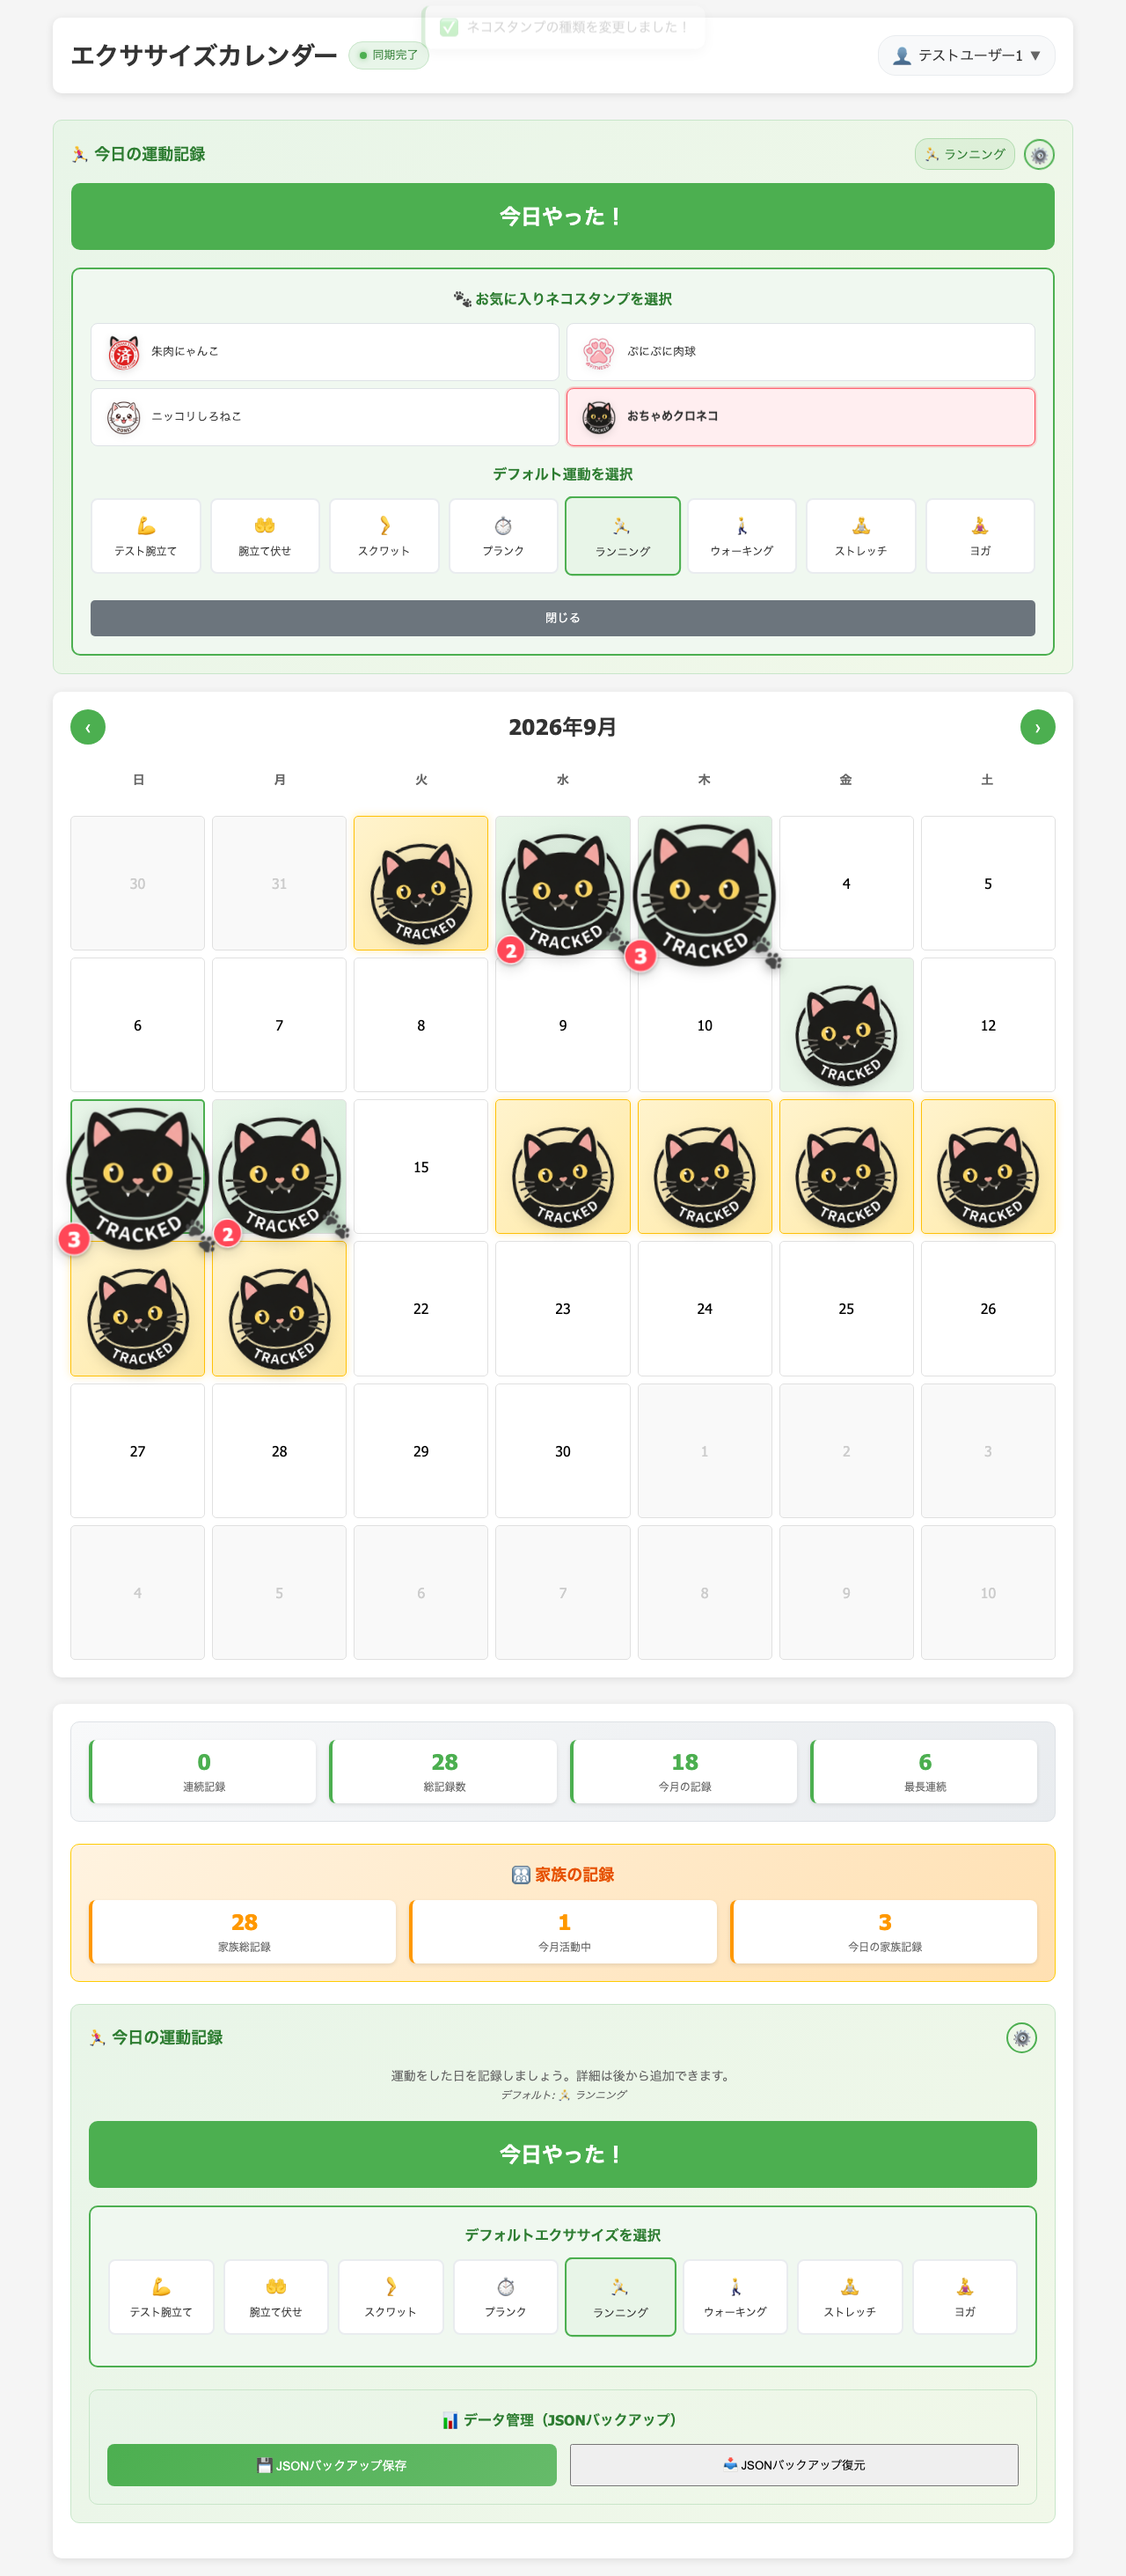
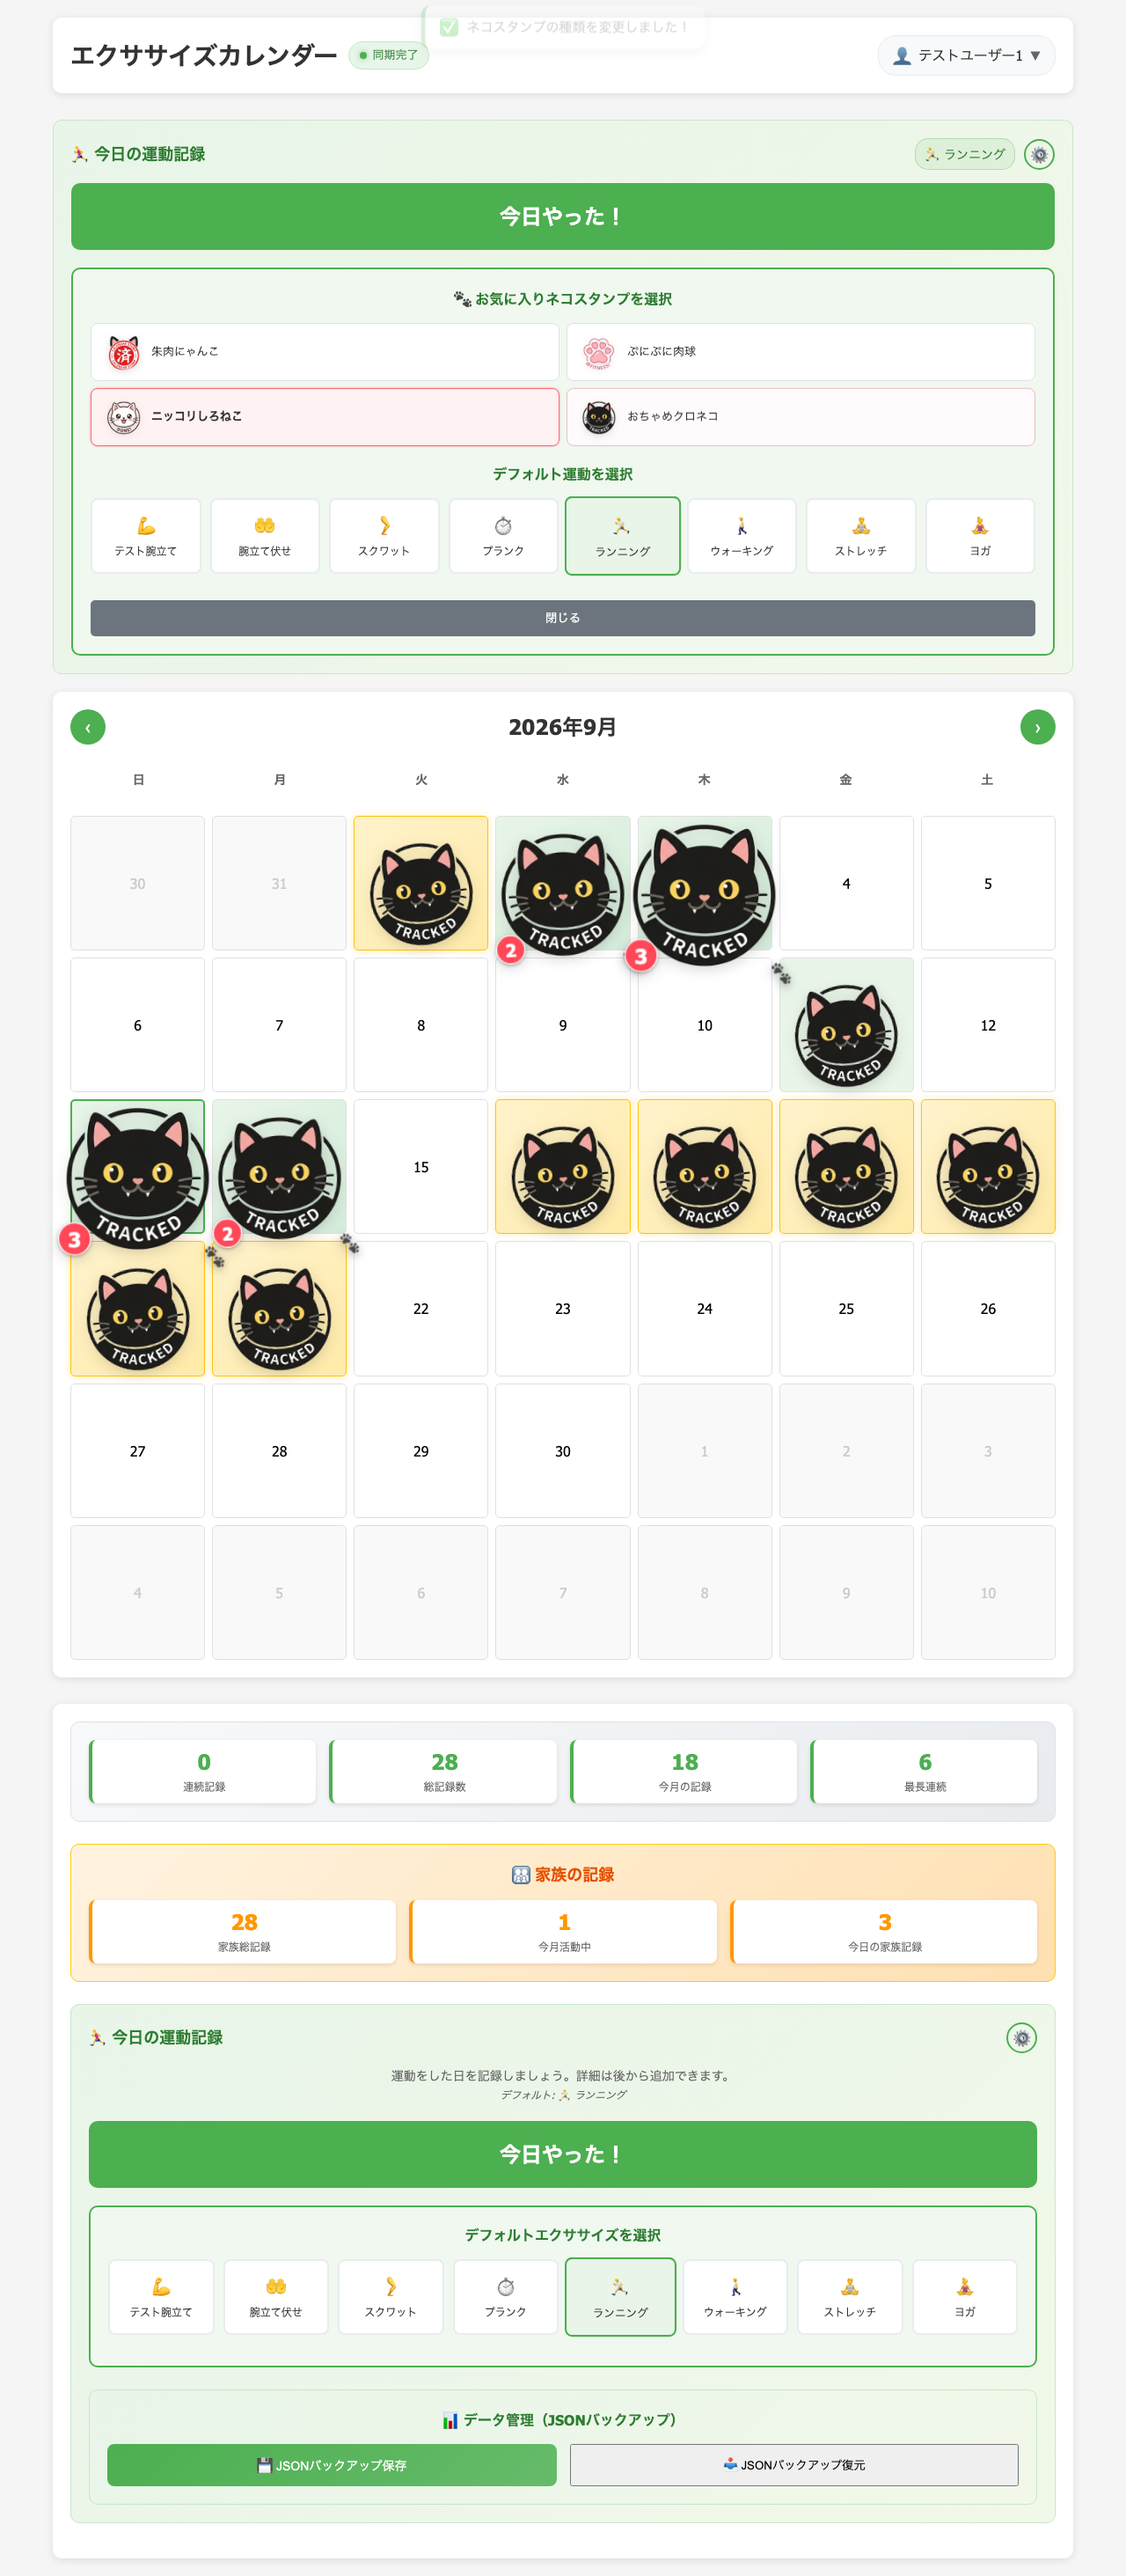
fix: shrink cat paw badge and shift to bottom-right outer edge to avoid covering cat face

diff --git a/public/style.css b/public/style.css
@@ -460,12 +460,12 @@ body {
   text-shadow: 0 0 1px rgba(255, 71, 87, 0.4);
 }
 
-/* 肉球バッジ（複数記録時のアクセント・猫スタンプ右下の中央寄りに配置） */
+/* 肉球バッジ（複数記録時のアクセント・猫のお顔に一切被らないよう右下隅の外縁に配置） */
 .stamp-done .cat-paw-badge {
   position: absolute;
-  bottom: 8px;
-  right: 8px;
-  font-size: 22px;
+  bottom: -4px;
+  right: -2px;
+  font-size: 14px;
   line-height: 1;
   z-index: 12;
   filter: drop-shadow(0 2px 4px rgba(0, 0, 0, 0.3));
@@ -542,9 +542,9 @@ body {
 }
 
 .stamp-done.stamp-large .cat-paw-badge {
-  font-size: 25px;
-  bottom: 10px;
-  right: 10px;
+  font-size: 16px;
+  bottom: -2px;
+  right: 0px;
 }
 
 .stamp-done.stamp-large .record-count {
@@ -602,9 +602,9 @@ body {
 }
 
 .stamp-done.stamp-xlarge .cat-paw-badge {
-  font-size: 28px;
-  bottom: 12px;
-  right: 12px;
+  font-size: 18px;
+  bottom: 0px;
+  right: 2px;
 }
 
 .stamp-done.stamp-xlarge .record-count {

diff --git a/public/sw.js b/public/sw.js
@@ -1,4 +1,4 @@
-const CACHE_NAME = 'exercise-calendar-v16'
+const CACHE_NAME = 'exercise-calendar-v18'
 const urlsToCache = [
   '/',
   '/index.html',
